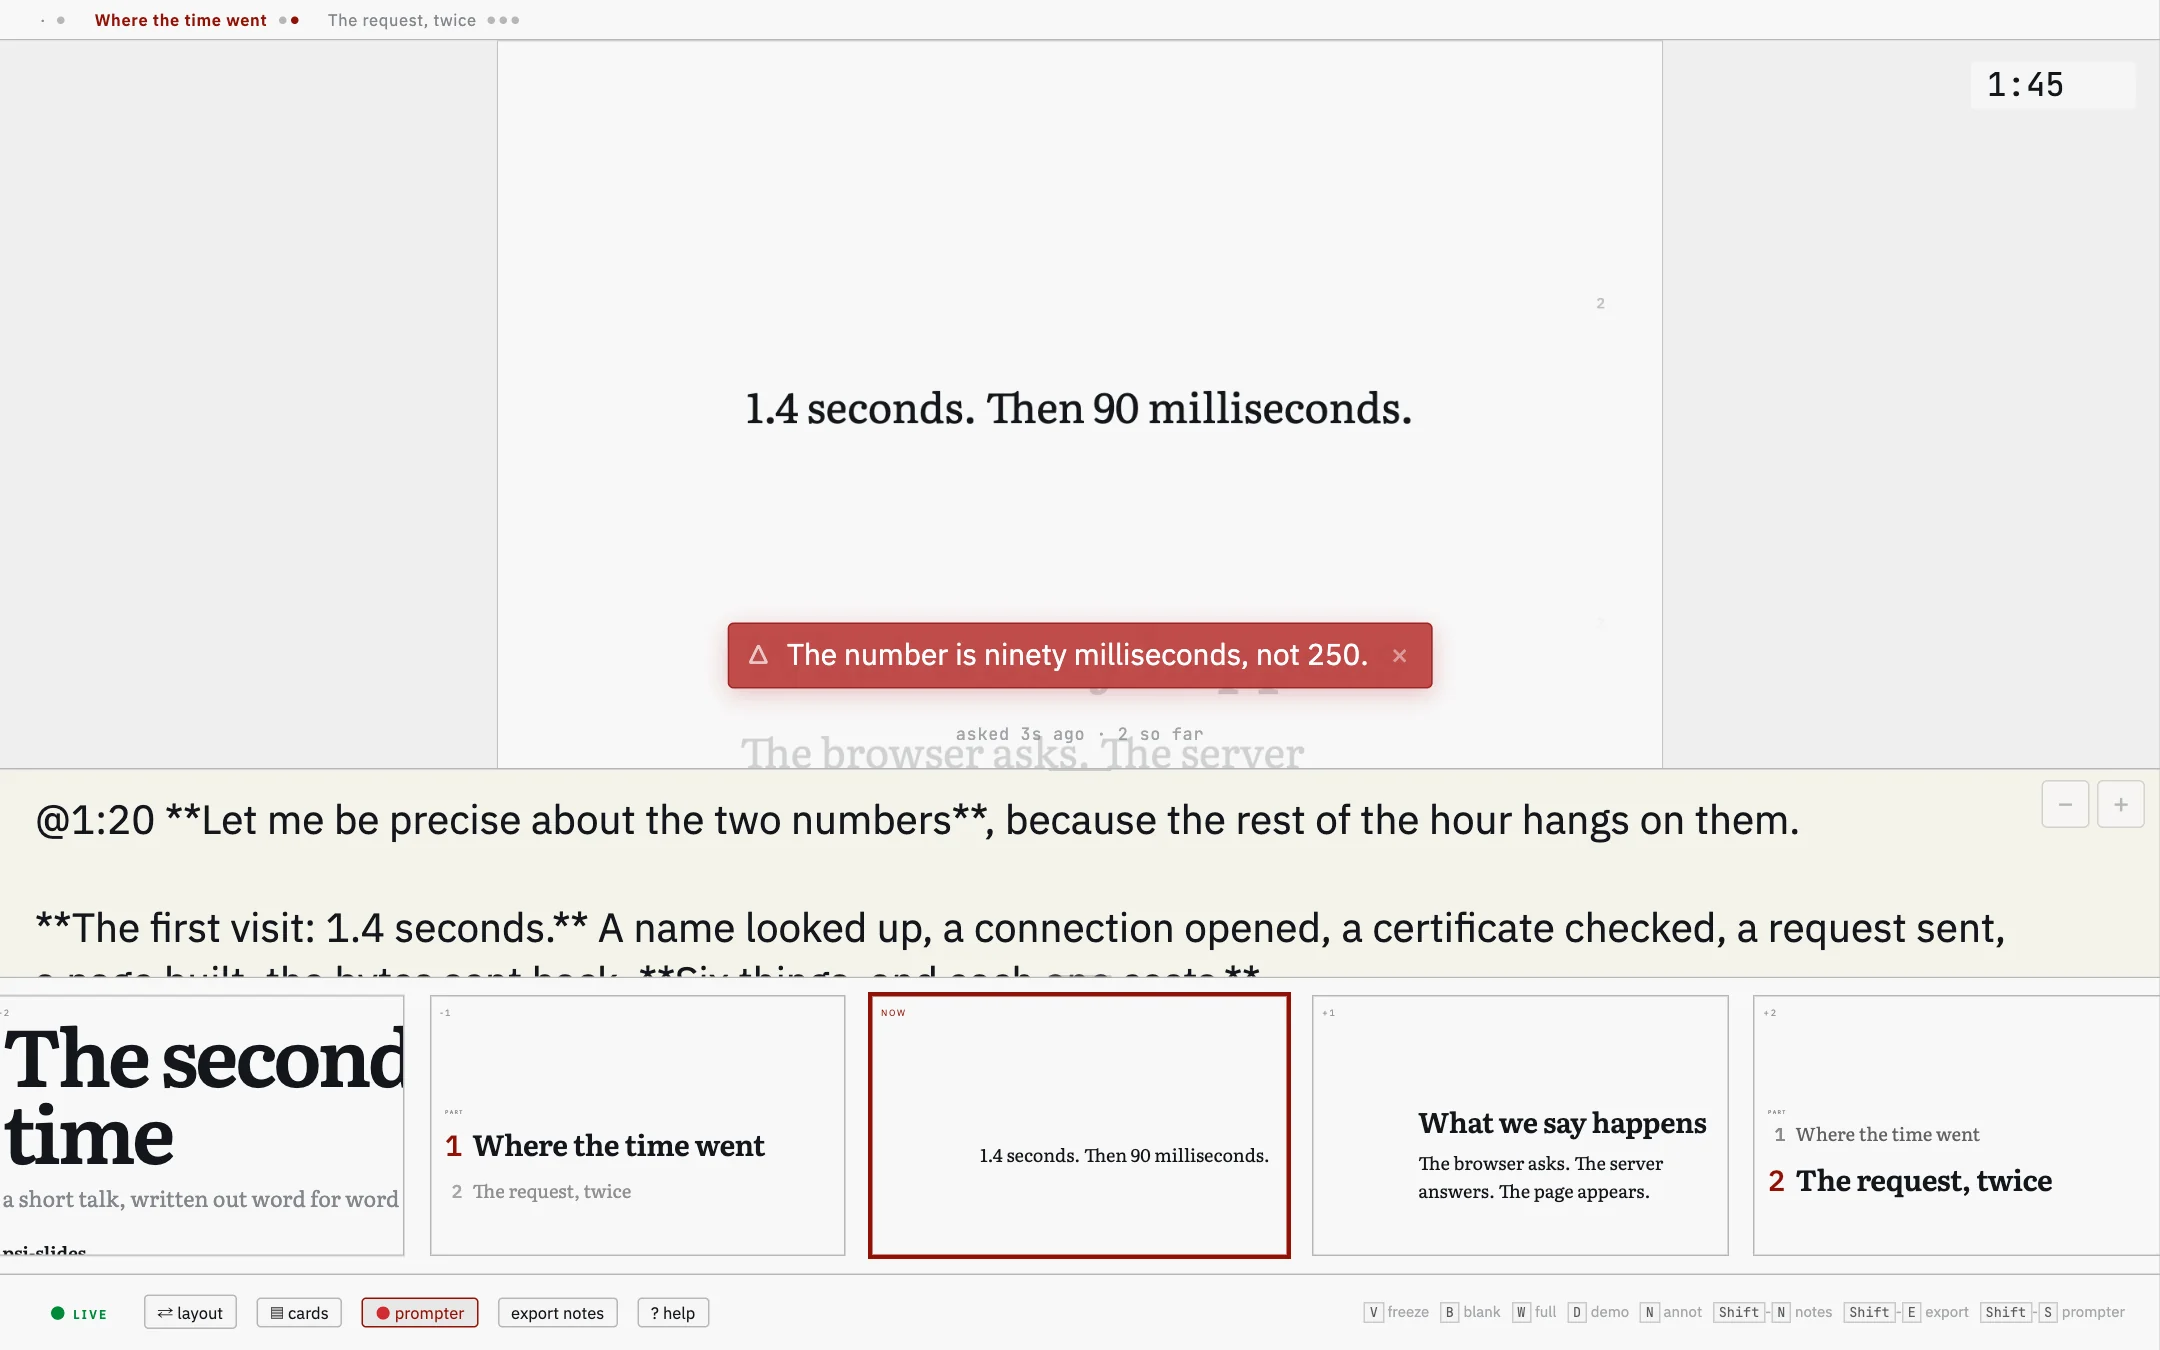
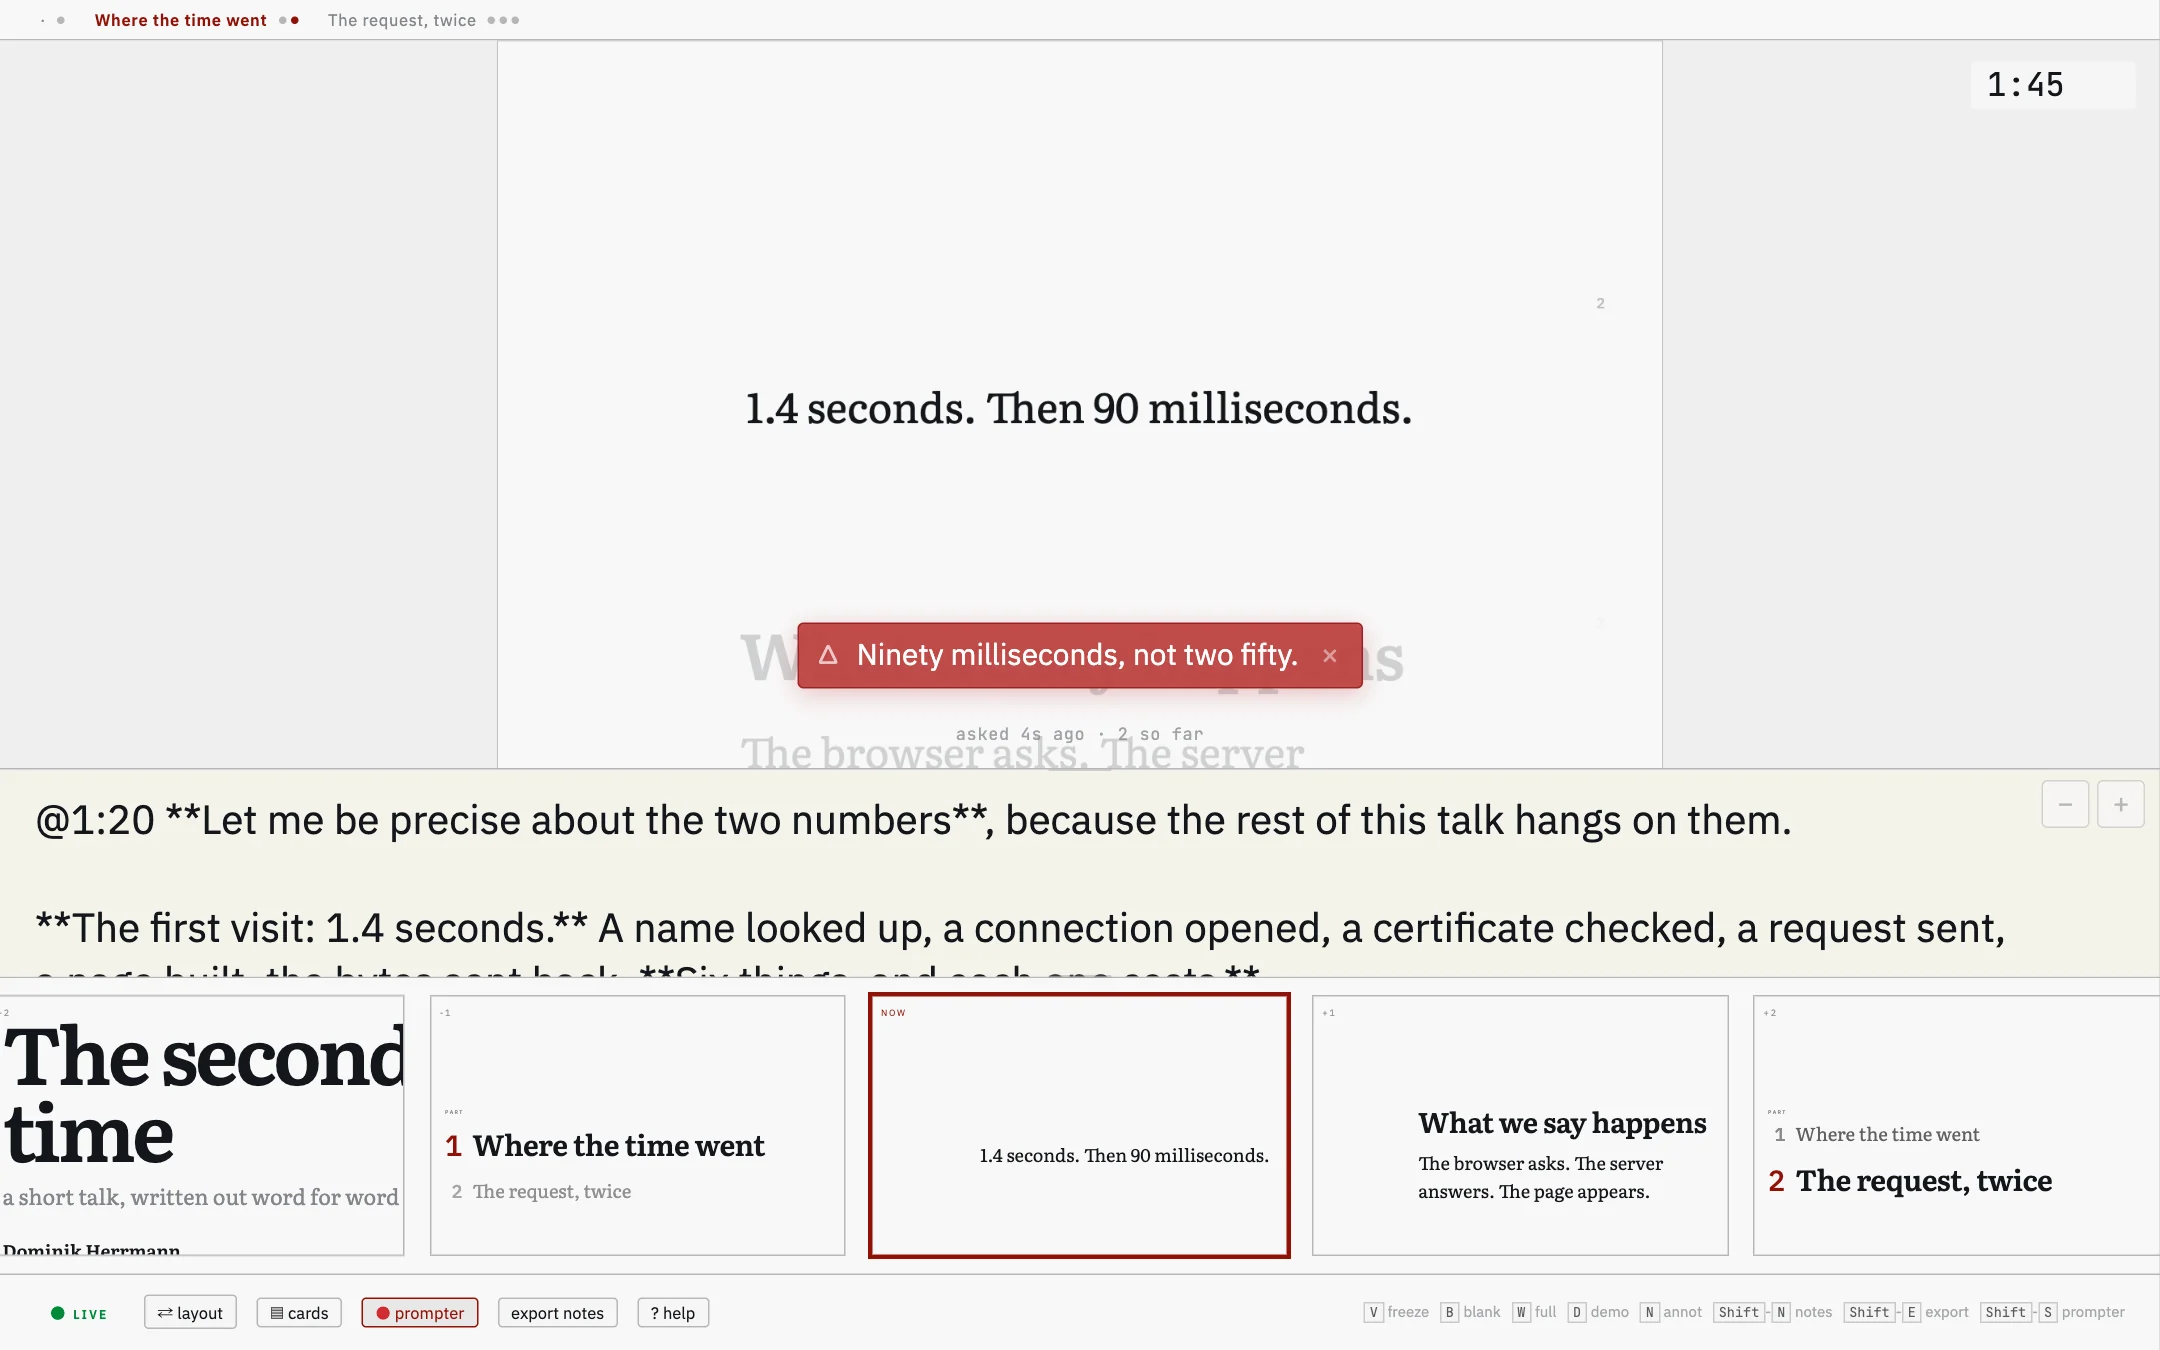
Prompter shots re-taken after the spoken-talk prose pass, and the alt texts quote the new hints
shoot-prompter.mjs, two calls per language: „Ninety milliseconds, not two
fifty.“ and „Die Zahl ist neunzig Millisekunden, nicht 250.“ – the model's
own words, which the alt texts now repeat.

Claude-Session: https://claude.ai/code/session_016G4B7RWyCbS2zM17BHo2Ld

diff --git a/docs/site/in-the-room.de.html b/docs/site/in-the-room.de.html
@@ -310,7 +310,7 @@ where the rest of the hour is going to be spent.
    <div class="stage">
     <figure class="shot">
      <div class="bar"><b>speaker.html</b> &middot; Shift-S</div>
-     <img src="../img/prompter-hint-de.webp" alt="Das ganze Cockpit. Oben die Teile des Vortrags und die Uhr; in der Mitte seine Kopie der aktuellen Folie, auf der &bdquo;1,4 Sekunden. Dann 90 Millisekunden.&ldquo; steht. Über den unteren Rand dieser Folie liegt ein roter Streifen mit &bdquo;Neunzig, nicht 250 Millisekunden.&ldquo;, darunter eine blasse Zeile: &bdquo;asked 3s ago &middot; 2 so far&ldquo;. Unter der Folie die Sprechernotiz, dann eine Reihe von fünf Folienvorschauen, die aktuelle rot umrandet, und eine Fußzeile mit dem leuchtenden Prompter-Knopf.">
+     <img src="../img/prompter-hint-de.webp" alt="Das ganze Cockpit. Oben die Teile des Vortrags und die Uhr; in der Mitte seine Kopie der aktuellen Folie, auf der &bdquo;1,4 Sekunden. Dann 90 Millisekunden.&ldquo; steht. Über den unteren Rand dieser Folie liegt ein roter Streifen mit &bdquo;Die Zahl ist neunzig Millisekunden, nicht 250.&ldquo;, darunter eine blasse Zeile: &bdquo;asked 2s ago &middot; 2 so far&ldquo;. Unter der Folie die Sprechernotiz, dann eine Reihe von fünf Folienvorschauen, die aktuelle rot umrandet, und eine Fußzeile mit dem leuchtenden Prompter-Knopf.">
     </figure>
    </div>
   </div>

diff --git a/docs/site/in-the-room.html b/docs/site/in-the-room.html
@@ -307,7 +307,7 @@ where the rest of the hour is going to be spent.
    <div class="stage">
     <figure class="shot">
      <div class="bar"><b>speaker.html</b> &middot; Shift-S</div>
-     <img src="img/prompter-hint.webp" alt="The whole cockpit. Across the top, the parts of the talk and the clock at 1:45; in the middle, its copy of the current slide, reading &ldquo;1.4 seconds. Then 90 milliseconds.&rdquo; Across the lower edge of that slide a red strip reads &ldquo;The number is ninety milliseconds, not 250.&rdquo;, and under it a faint line reads &ldquo;asked 3s ago &middot; 2 so far&rdquo;. Below the slide, the speaker note, then a row of five slide previews with the current one outlined in red, and a footer with the prompter button lit.">
+     <img src="img/prompter-hint.webp" alt="The whole cockpit. Across the top, the parts of the talk and the clock at 1:45; in the middle, its copy of the current slide, reading &ldquo;1.4 seconds. Then 90 milliseconds.&rdquo; Across the lower edge of that slide a red strip reads &ldquo;Ninety milliseconds, not two fifty.&rdquo;, and under it a faint line reads &ldquo;asked 4s ago &middot; 2 so far&rdquo;. Below the slide, the speaker note, then a row of five slide previews with the current one outlined in red, and a footer with the prompter button lit.">
     </figure>
    </div>
   </div>

diff --git a/docs/site/prompter.de.html b/docs/site/prompter.de.html
@@ -77,7 +77,7 @@
    <div class="stage">
     <figure class="shot">
      <div class="bar"><b>speaker.html</b> &middot; Shift-S</div>
-     <img src="../img/prompter-hint-de.webp" alt="Das ganze Cockpit. Oben die Teile des Vortrags und die Uhr; in der Mitte seine Kopie der aktuellen Folie, auf der &bdquo;1,4 Sekunden. Dann 90 Millisekunden.&ldquo; steht. Über den unteren Rand dieser Folie liegt ein roter Streifen mit &bdquo;Neunzig, nicht 250 Millisekunden.&ldquo;, darunter eine blasse Zeile: &bdquo;asked 3s ago &middot; 2 so far&ldquo;. Unter der Folie die Sprechernotiz, dann eine Reihe von fünf Folienvorschauen, die aktuelle rot umrandet, und eine Fußzeile mit dem leuchtenden Prompter-Knopf.">
+     <img src="../img/prompter-hint-de.webp" alt="Das ganze Cockpit. Oben die Teile des Vortrags und die Uhr; in der Mitte seine Kopie der aktuellen Folie, auf der &bdquo;1,4 Sekunden. Dann 90 Millisekunden.&ldquo; steht. Über den unteren Rand dieser Folie liegt ein roter Streifen mit &bdquo;Die Zahl ist neunzig Millisekunden, nicht 250.&ldquo;, darunter eine blasse Zeile: &bdquo;asked 2s ago &middot; 2 so far&ldquo;. Unter der Folie die Sprechernotiz, dann eine Reihe von fünf Folienvorschauen, die aktuelle rot umrandet, und eine Fußzeile mit dem leuchtenden Prompter-Knopf.">
     </figure>
    </div>
   </div>

diff --git a/docs/site/prompter.html b/docs/site/prompter.html
@@ -81,7 +81,7 @@
    <div class="stage">
     <figure class="shot">
      <div class="bar"><b>speaker.html</b> &middot; Shift-S</div>
-     <img src="img/prompter-hint.webp" alt="The whole cockpit. Across the top, the parts of the talk and the clock at 1:45; in the middle, its copy of the current slide, reading &ldquo;1.4 seconds. Then 90 milliseconds.&rdquo; Across the lower edge of that slide a red strip reads &ldquo;The number is ninety milliseconds, not 250.&rdquo;, and under it a faint line reads &ldquo;asked 3s ago &middot; 2 so far&rdquo;. Below the slide, the speaker note, then a row of five slide previews with the current one outlined in red, and a footer with the prompter button lit.">
+     <img src="img/prompter-hint.webp" alt="The whole cockpit. Across the top, the parts of the talk and the clock at 1:45; in the middle, its copy of the current slide, reading &ldquo;1.4 seconds. Then 90 milliseconds.&rdquo; Across the lower edge of that slide a red strip reads &ldquo;Ninety milliseconds, not two fifty.&rdquo;, and under it a faint line reads &ldquo;asked 4s ago &middot; 2 so far&rdquo;. Below the slide, the speaker note, then a row of five slide previews with the current one outlined in red, and a footer with the prompter button lit.">
     </figure>
    </div>
   </div>
